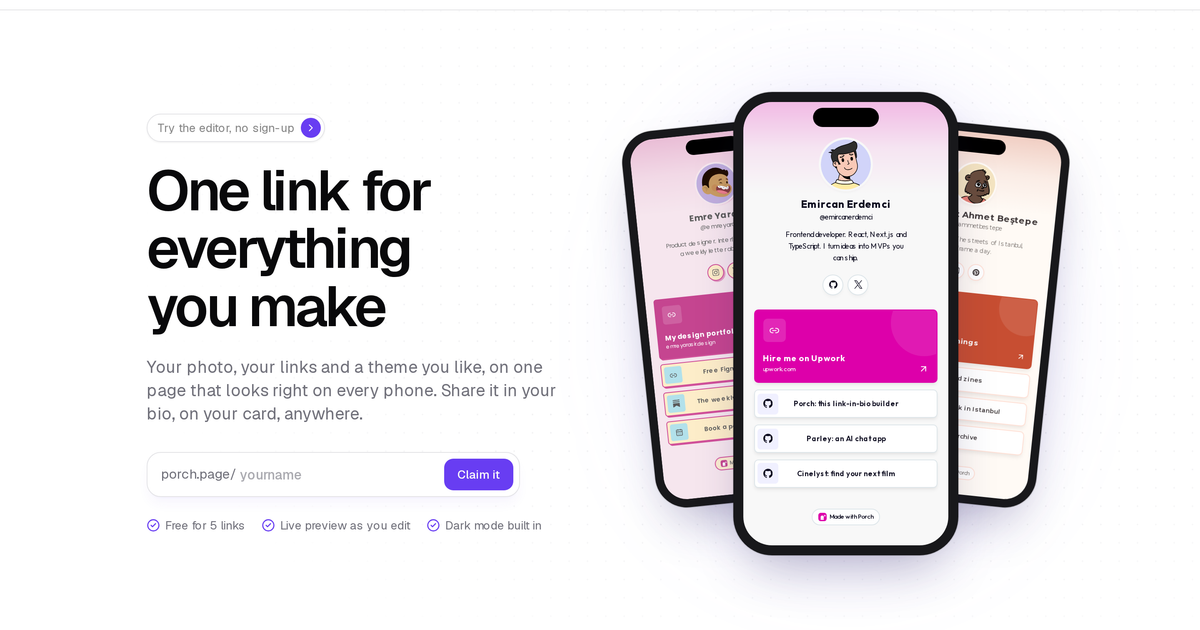
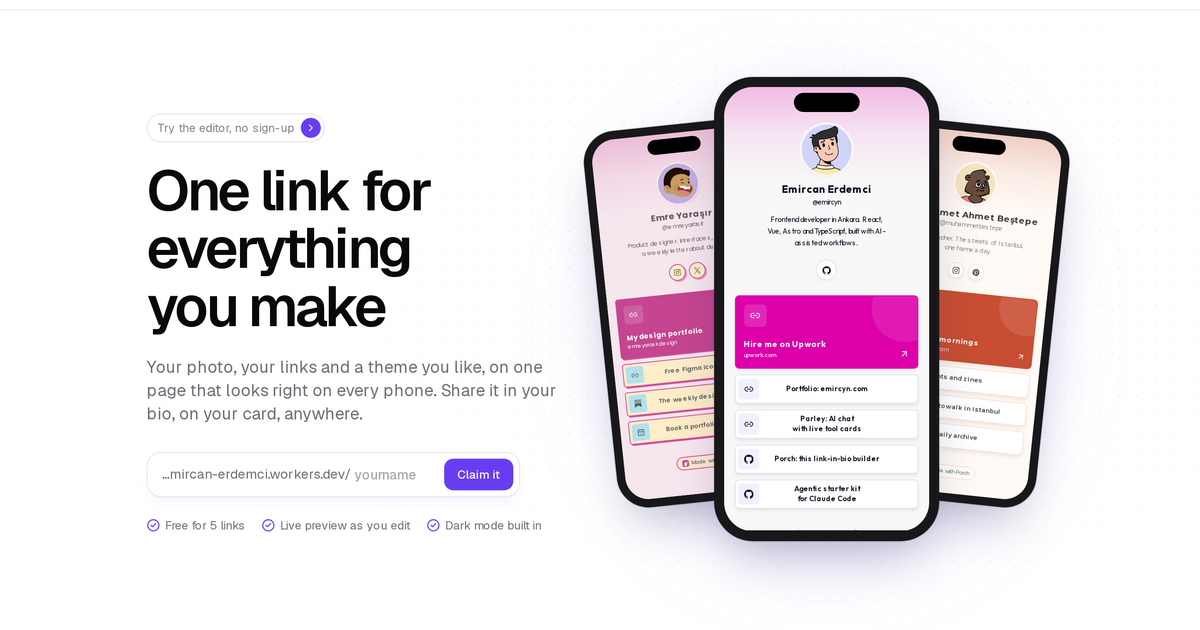
Link previews for theme pages and user pages
- 24 Open Graph cards in public/og: one per theme for /themes/<id> (the
  theme on its creator's page) and one per theme for user pages (the theme's
  colours, nobody's face; the name and bio come through as title and text)
- Drawn with the real components on a dev-only /og-card route and
  screenshotted by npm run og:build, so the Worker does no image work
- summary_large_image for X, metadataBase on the public layout, and a fresh
  landing preview image

Changed region(s): [[0.4625, 0.1206, 0.8017, 0.9048], [0.1542, 0.7238, 0.3392, 0.7841]]

diff --git a/src/app/(site)/og-card/[kind]/[id]/page.tsx b/src/app/(site)/og-card/[kind]/[id]/page.tsx
@@ -1,0 +1,111 @@
+import type { Metadata } from "next"
+import { notFound } from "next/navigation"
+
+import { LogoMark } from "@/components/logo"
+import { PhoneFrame } from "@/components/phone-frame"
+import { ProfileView } from "@/components/profile/profile-view"
+import { personaForTheme } from "@/lib/demo-profile"
+import { siteHost } from "@/lib/site"
+import { themes } from "@/lib/themes"
+
+export const metadata: Metadata = { robots: { index: false } }
+
+/**
+ * 1200 × 630 link-preview cards, drawn with the real components and screenshotted by
+ * scripts/build-og-images.mjs into public/og. Only served by the dev server; production uses the images.
+ *   /og-card/themes/<id>  a theme, on the page of the creator who uses it
+ *   /og-card/pages/<id>   any page in that theme: no one's face or name, since that comes from og:title
+ */
+export default async function OgCard({
+  params,
+  searchParams,
+}: {
+  params: Promise<{ kind: string; id: string }>
+  searchParams: Promise<{ host?: string }>
+}) {
+  if (process.env.NODE_ENV !== "development") notFound()
+  const { kind, id } = await params
+  const theme = themes.find((t) => t.id === id)
+  if (!theme || (kind !== "themes" && kind !== "pages")) notFound()
+  const persona = personaForTheme(theme.id)
+  const host = (await searchParams).host ?? siteHost
+
+  return (
+    <div
+      data-page-theme={theme.id}
+      id="og-card"
+      className="relative isolate flex h-[630px] w-[1200px] overflow-hidden bg-background font-sans text-foreground [letter-spacing:var(--page-tracking)]"
+    >
+      <div className="absolute inset-0 -z-10 bg-gradient-to-br from-primary/25 via-transparent to-primary/10" />
+      <div className="absolute -right-24 -bottom-40 -z-10 size-[560px] rounded-full bg-primary/15 blur-3xl" />
+
+      <div className="flex w-[640px] flex-col justify-between p-16">
+        <div className="flex items-center gap-3 text-2xl font-semibold">
+          <LogoMark className="size-10" />
+          Porch
+        </div>
+
+        {kind === "themes" ? (
+          <div className="flex flex-col gap-5">
+            <p className="text-2xl text-muted-foreground">A Porch theme</p>
+            <p className="text-8xl leading-[0.95] font-bold tracking-tight">{theme.name}</p>
+            <div className="flex gap-3 text-xl font-semibold">
+              <span className="rounded-full bg-primary px-4 py-1.5 text-primary-foreground">
+                {theme.pro ? "Pro" : "Free"}
+              </span>
+              <span className="rounded-full border bg-card px-4 py-1.5 text-card-foreground">Light and dark</span>
+            </div>
+          </div>
+        ) : (
+          <div className="flex flex-col gap-5">
+            <p className="text-7xl leading-[1] font-bold tracking-tight">All my links, in one place</p>
+            <p className="text-2xl text-muted-foreground">Tap through to see everything I make and share.</p>
+          </div>
+        )}
+
+        <p className="text-xl whitespace-nowrap text-muted-foreground">
+          {kind === "themes" ? host : "Made with Porch"}
+        </p>
+      </div>
+
+      <div className="relative flex-1">
+        <div className="absolute top-12 left-10 rotate-3">
+          <PhoneFrame width={330}>
+            {kind === "themes" ? (
+              <ProfileView profile={persona.profile} links={persona.links} theme={theme} interactive={false} />
+            ) : (
+              <SkeletonPage />
+            )}
+          </PhoneFrame>
+        </div>
+      </div>
+    </div>
+  )
+}
+
+/** A page in the theme's colours with nobody on it: circle, name and bio bars, a row of links. */
+function SkeletonPage() {
+  return (
+    <div className="flex min-h-full flex-col items-center bg-background px-6 pt-20 text-foreground">
+      <div className="size-24 rounded-full bg-primary/25 ring-4 ring-background" />
+      <div className="mt-5 h-5 w-40 rounded-full bg-foreground/80" />
+      <div className="mt-3 h-3 w-24 rounded-full bg-muted-foreground/50" />
+      <div className="mt-5 h-3 w-60 rounded-full bg-muted-foreground/35" />
+      <div className="mt-2 h-3 w-52 rounded-full bg-muted-foreground/35" />
+      <div className="mt-6 flex gap-2">
+        {[0, 1, 2].map((i) => (
+          <div key={i} className="size-10 rounded-full border bg-card" />
+        ))}
+      </div>
+      <div className="mt-8 flex w-full flex-col gap-3">
+        <div className="h-24 rounded-lg bg-primary shadow-[var(--page-shadow-sm)]" />
+        {[0, 1, 2, 3].map((i) => (
+          <div key={i} className="flex h-14 items-center gap-3 rounded-lg border bg-card p-2 shadow-[var(--page-shadow-sm)]">
+            <div className="size-10 rounded-md bg-muted" />
+            <div className="h-3 flex-1 rounded-full bg-foreground/25" />
+          </div>
+        ))}
+      </div>
+    </div>
+  )
+}

diff --git a/src/app/(public)/[username]/page.tsx b/src/app/(public)/[username]/page.tsx
@@ -22,10 +22,16 @@ export async function generateMetadata({ params }: PageProps<"/[username]">): Pr
   const page = await getPublicPage(username)
   if (!page) return { title: "Page not found" }
   const name = page.profile.displayName || page.profile.username
+  const description = page.profile.bio || `${name}'s links on Porch`
+  // A card in the page's own theme; the name and bio come through as the preview's title and text.
+  const images = [
+    { url: `/og/pages/${page.profile.themeId}.jpg`, width: 1200, height: 630, alt: `${name} on Porch` },
+  ]
   return {
     title: `${name} (@${page.profile.username})`,
-    description: page.profile.bio || `${name}'s links on Porch`,
-    openGraph: { title: name, description: page.profile.bio, type: "profile" },
+    description,
+    openGraph: { title: name, description, images, type: "profile", url: `/${page.profile.username}` },
+    twitter: { card: "summary_large_image", title: name, description, images },
   }
 }
 

diff --git a/src/app/(public)/themes/[id]/page.tsx b/src/app/(public)/themes/[id]/page.tsx
@@ -17,9 +17,15 @@ export async function generateMetadata({ params }: PageProps<"/themes/[id]">): P
   const { id } = await params
   const theme = themes.find((t) => t.id === id)
   if (!theme) return { title: "Theme not found" }
+  const title = `${theme.name} theme · Porch`
+  const description = `See the ${theme.name} theme on a real Porch page, in light and dark.`
+  // Pre-rendered by scripts/build-og-images.mjs, so link previews cost the Worker nothing.
+  const images = [{ url: `/og/themes/${theme.id}.jpg`, width: 1200, height: 630, alt: `The ${theme.name} theme` }]
   return {
-    title: `${theme.name} theme · Porch`,
-    description: `See the ${theme.name} theme on a real Porch page, in light and dark.`,
+    title,
+    description,
+    openGraph: { title, description, images, type: "website" },
+    twitter: { card: "summary_large_image", title, description, images },
   }
 }
 

diff --git a/src/app/(public)/layout.tsx b/src/app/(public)/layout.tsx
@@ -1,3 +1,4 @@
+import type { Metadata } from "next"
 import { Geist } from "next/font/google"
 
 import { pageFontVariables } from "@/lib/page-fonts"
@@ -5,6 +6,11 @@ import "../globals.css"
 import "../page-themes.css"
 
 const geist = Geist({ variable: "--font-sans", subsets: ["latin", "latin-ext"] })
+
+// Link previews need absolute image URLs.
+export const metadata: Metadata = {
+  metadataBase: new URL(process.env.NEXT_PUBLIC_SITE_URL ?? "http://localhost:3000"),
+}
 
 // Public pages get their own root layout: no theme switcher, toasts or animation libraries. What a visitor
 // downloads is the page itself and Next's runtime, which matters in Instagram's and TikTok's in-app browsers.

diff --git a/src/app/(site)/layout.tsx b/src/app/(site)/layout.tsx
@@ -29,6 +29,7 @@ export const metadata: Metadata = {
   },
   description:
     "Build a beautiful link-in-bio page in minutes. Your photo, your links, your theme — shared at one short URL.",
+  twitter: { card: "summary_large_image" },
 }
 
 export default function RootLayout({ children }: LayoutProps<"/">) {

diff --git a/README.md b/README.md
@@ -82,6 +82,9 @@ Stripe · Cloudflare Workers via OpenNext · Vitest · dnd-kit · Recharts · Ma
 - **Phone previews use real iPhone 16 geometry.** The page is laid out at 393 px (the real viewport) and
   scaled into a frame built from Apple's measurements, so the preview matches the phone
   (`src/components/phone-frame.tsx`).
+- **Link previews cost the Worker nothing.** Every theme page and every user page has an Open Graph card in
+  its own theme (`public/og`), drawn with the real components and screenshotted ahead of time by
+  `npm run og:build`, instead of rendering images on each request with `ImageResponse`.
 - **The Worker went from 2.65 MiB to 1.64 MiB** (gzip) to fit the free plan's 3 MiB: `zod/mini`, no Supabase
   client in the browser, and a webpack build so shared modules aren't duplicated per route.
 - **The demo can't be vandalised.** Its editor runs locally, and database triggers refuse writes to the demo
